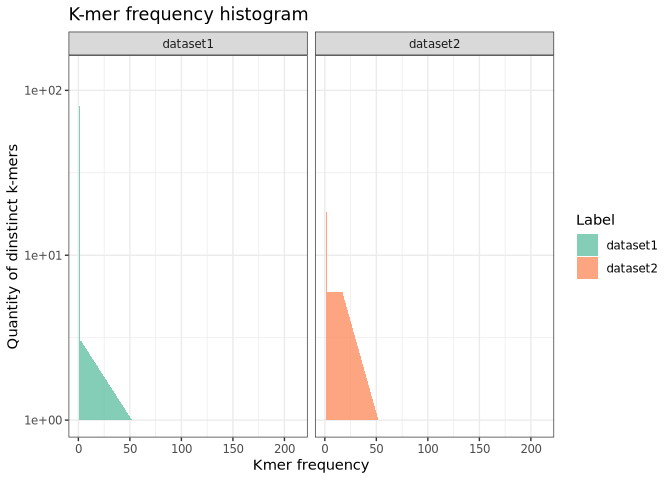
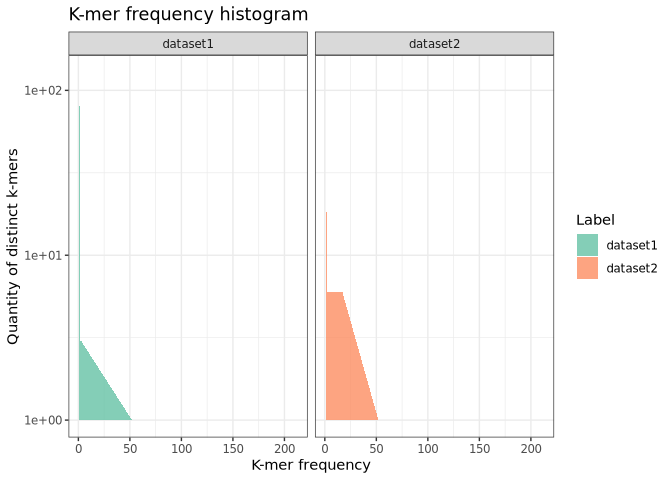
Updated variable plot_histogram_kmer_freq function.

Changed region(s): [[0.0, 0.2812, 0.0312, 0.7188], [0.375, 0.9375, 0.5625, 1.0]]

diff --git a/README.md b/README.md
@@ -145,7 +145,7 @@ well as select the shared and exclusive sequences.
   #Get relation
     kmer_sharing_list <- kmer_sharing_relation(dataset_1, dataset_2)
 #> duckdb is keeping downloaded extensions in a temporary directory:
-#> ℹ /tmp/RtmppeOL6M/duckdb/extensions
+#> ℹ /tmp/RtmpMbnDuq/duckdb/extensions
 #> This is removed when the R session ends, so extensions are re-downloaded each session.
 #> ℹ To keep them, point `options(duckdb.extension_directory =)` or the `DUCKDB_EXTENSION_DIRECTORY` environment variable at a permanent path.
 #> Extracting datasets...
